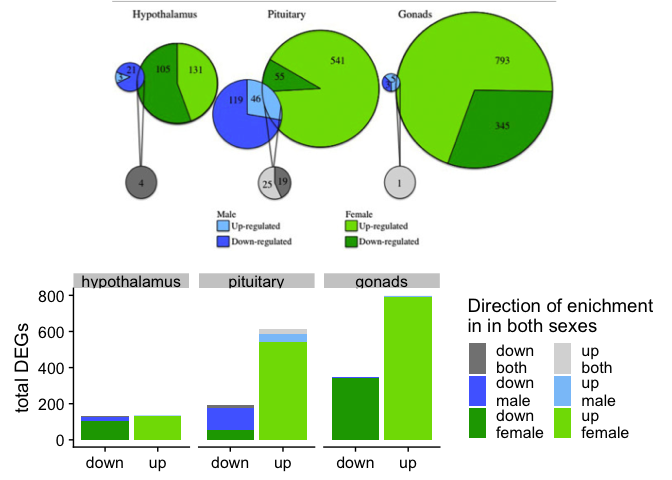
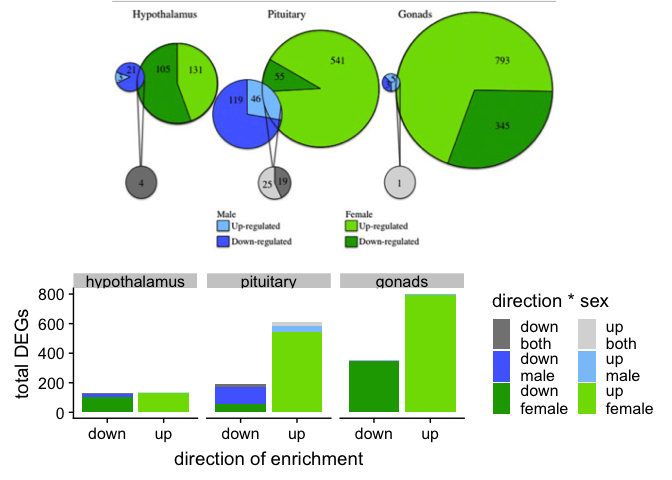
new order, more text

diff --git a/README.md b/README.md
@@ -1,73 +1,107 @@
 [![Binder](http://mybinder.org/badge.svg)](http://beta.mybinder.org/v2/gh/raynamharris/vennbar/master?urlpath=rstudio)
 Click the button to launch a Binder R session and tinker with all the
-bar plots or explore the code in the cloud.
+bar plots or explore the code in the cloud. Navigate to the `examples`
+directory where there is a subdirectory for each of the four examples,
+all identified by the first or last author.
 
-I would like to see more scientists using bar charts instead of Venn
-diagrams. I’d like to illustrate why that is by comparing venn diagrams
-from some research artilces that I resprect to bar plots that I made
-with `tidyverse` and `cowplot`. I think these bar plots can be made more
-simplicity, flexibility, reliability, and reproducibility than a venn
-diaram.
+[Venn diagrams](https://en.wikipedia.org/wiki/Venn_diagram) are a type
+of figure that I see a lot behavioral genomics research. While I do
+agree that venn diagrams are a great way to *conceptualize* the goal of
+looking for shared or unique transcriptional reponses to experimental
+manipulations, I don’t think they are the best way to *vizualize
+emperical data*.
 
-Example 1 is from [Cognitive specialization for learning faces is
-associated with shifts in the brain transcriptome of a social wasp by
-Berens et al.](http://jeb.biologists.org/content/220/12/2149). In this
-example, the circles do not represent a meaningful quantity. A stacked
-bar plot can use color, space, and text to highlight patterns in the
-data. [Here is the code](./examples/toth2017/toth-venn.Rmd) for my bar
-plot alternative.
+I don’t think I am the only one with this opinion. I searched for “venn”
+in Garrett Grolemund & Hadley Wickham’s [R for Data
+Science](https://r4ds.had.co.nz/) book and in Claus Wilke’s
+[Fundamentals of Data Visualization](https://serialmentor.com/dataviz/)
+book, and I found **zero** support for using venn diagrams in
+communicate data. (Note: the R for Data Science book does use Venn
+diagrams to illustrate the differences between `inner_join` and
+`full_join`, but this supports my intutiation that venn diagrams are
+useful for conceptualize ideas about data.)
 
-![](./examples/toth2017/toth-original-alt-1.png)
-
-Another reproducible alternative to the venn diagram is a table.
-
-    ##   GO  pattern P.fusatus both P.metricus
-    ## 1  h observed        42   10         20
-    ## 2  h expected        52    0         30
-    ## 3  i observed        31   13         25
-    ## 4  i expected        43    1         37
-
-Example 2 if from [Sex-biased transcriptomic response of the
-reproductive axis to stress by Calisi et
-al.](https://www.sciencedirect.com/science/article/pii/S0018506X17302696?via%3Dihub).
-The code for my bar plot alternative [is
-here](./examples/calisi2017/calisi-venn.Rmd). This weighted Venn diagram
-is the highest quality Venn diagram I’ve ever seen. Here, the circles
-convey meaning at large sizes, but they lose resolution at smaller
-values. I think bar plots can convey the data more accurately. This
-faceted and stacked bar plot really highlights the magnitude of the sex
-difference between males and females.
-
-![](./examples/calisi2017/calisi-original-alt-1.png)
-
-Example 3 if from [Transcriptomics of an extended phenotype: parasite
-manipulation of wasp social behaviour shifts expression of caste-related
-genes by Geffre et
-al.](https://royalsocietypublishing.org/doi/full/10.1098/rspb.2017.0029?url_ver=Z39.88-2003&rfr_id=ori:rid:crossref.org&rfr_dat=cr_pub%3dpubmed)
-Again, these circles do not represent the data. This is a simple bar
-chart without any fancy facetting or stacking. I flipped the coordinates
-rather than rotating the text. The authors used an arrow, but I used a
-bright red fill to highly the candidate genes. [Here is the
-code](./examples/geffre2017/geffre-venn.Rmd) for my bar plot
-alternative.
-
-![](./examples/geffre2017/geffre-original-alt-1.png)
-
-Example 4 from [Early life stress alters transcriptomic patterning
-across reward circuitry in male and female
-mice](https://www.biorxiv.org/content/10.1101/624353v1) by Catherine
-Jensen Peña *et al.* This might be my favorite. The subplot has its own
-scaling, so of circles cannot be compared across plots. Moreover, the
-authors report the *percent* of shared gene expression, but there venn
-diagrams show *counts*. So, I calculated the per cent. Shared gene
-expression patterns are shown in purple; unique gene expression in
-orange. Now, you can spot unusual trends in the data, like increase
-response to early and late life stress in the female PFC. This is
-something that is hidden in the Venn Diagram. [Here is the
-code](./examples/pena2019/pena-venn.Rmd) for my bar plot alternative.
-
-![](./examples/pena2019/pena-original-alt-1.png)
+With this blog post, my goal is to encourage more scientists to use
+**bar charts instead of Venn diagrams** to communicate experimental
+results. Here, I compare four Venn diagrams from published research
+articles to four bar plots that I made with `tidyverse` and `cowplot`. I
+think these bar plots can be made more simplicity, flexibility,
+reliability, and reproducibility than a venn diaram. These Venn diagrams
+all come from labs that I admire and respectd. I really value their
+research contributions, but I do hope to see more alternatives for Venn
+diagrams in future publications.
 
 ![](./vennbar-1.png)
 
-What do you think? What other alternatives do you suggest?
+**Example 1** is from [Cognitive specialization for learning faces is
+associated with shifts in the brain transcriptome of a social wasp by
+Berens *et al*. 2017](http://jeb.biologists.org/content/220/12/2149). In
+this example, the circles do not represent a meaningful quantity. A
+stacked bar plot can use color, space, and text to highlight patterns in
+the data. I wanted to make bar plot mirror the venn diagram as closely
+as possible, but I chagned the order of the factors so that “both”
+catagory was plotted first. This was necessary for adding text to the
+bar chart because the values for *P. metricus* and both were overlapping
+when I kept the both catagory in the middle. [Here is the
+code](https://github.com/raynamharris/vennbar/blob/master/examples/toth2017/toth-venn.md)
+for my bar plot alternative.
+
+![](./examples/toth2017/toth-original-alt-1.png)
+
+**Example 2** is from [Transcriptomics of an extended phenotype:
+parasite manipulation of wasp social behaviour shifts expression of
+caste-related genes by Geffre et
+al.](https://royalsocietypublishing.org/doi/full/10.1098/rspb.2017.0029?url_ver=Z39.88-2003&rfr_id=ori:rid:crossref.org&rfr_dat=cr_pub%3dpubmed).
+As with example 1, the size of these circles does convey any meaning
+about the size of the sets. The bar chart really highlights that fact
+that that “worker versus gyne” (or “WorkGyne” for short) comparison
+yields the most differentially expressed genes. However, that was not
+the main message of the venn diagram. The authors used an arrow an `*`
+to highlight one particular comparison, so I used a bright red fill to
+highlight the parasite maniupation candidate genes. [Here is the
+code](https://github.com/raynamharris/vennbar/blob/master/examples/geffre2017/geffre-venn.md)
+for my bar plot alternative.
+
+![](./examples/geffre2017/geffre-original-alt-1.png)
+
+**Example 3** is from [Sex-biased transcriptomic response of the
+reproductive axis to stress by Calisi et
+al. 2017](https://www.sciencedirect.com/science/article/pii/S0018506X17302696?via%3Dihub).
+This weighted Venn diagram is the highest quality Venn diagram I’ve ever
+seen, but it still has limitations. If you only focus on the green pies,
+they seem to do a good job of convey relative size, but if you look
+closely, you’ll notices that the size of the grey circles is misleading.
+The original venn diagram conveys information about tissue
+(hypothalamus, pititary, gonad), sex (male and female), and response
+(up- or down-regulation), so I used facetting and a combination of
+stacked and side-by-side bar plot to vizualize all the complexity. I
+think that this bar chart does a better job of conveying the magnitude
+of differences between the sexes and across tissues an the bias toward
+up-regulation of gene expression. [Here is the
+code](https://github.com/raynamharris/vennbar/blob/master/examples/calisi2017/calisi-venn.md)
+for my bar plot alternative, as well as a less-squished version of the
+bar plot.
+
+![](./examples/calisi2017/calisi-original-alt-1.png)
+
+**Example 4** is from [Early life stress alters transcriptomic
+patterning across reward circuitry in male and female mice by Peña *et
+al.* 2017](https://www.biorxiv.org/content/10.1101/624353v1). Here, the
+venn diagrams are also scales, but each of the six subplots have their
+own scaling, so you cannot compare all six visually. Moreover, the
+authors report the *percent* of shared gene expression in the
+manuscript, but there venn diagrams show *counts*. So, I calculated the
+percent of shared differentially expressed genes (%DEGs) and colored all
+overlapping responses in shades of purple an unique responses in shades
+of orange. Now, once can spot intersting trends in the data, like
+increase response to early and late life stress (ELS + STVS) in the
+female PFC. This is something that is present but not emphasized in the
+venn. [Here is the
+code](https://github.com/raynamharris/vennbar/blob/master/examples/pena2019/pena-venn.md)
+for my bar plot alternative.
+
+![](./examples/pena2019/pena-original-alt-1.png)
+
+So, that’s my comparison of four venn diagrams and four possible bar
+plot alternatives. What do you think? Do you see the advantages? What
+other alternatives do you suggest? Comments welcome!

diff --git a/examples/calisi2017/calisi-venn.md b/examples/calisi2017/calisi-venn.md
@@ -41,9 +41,9 @@ paper](https://www.sciencedirect.com/science/article/pii/S0018506X17302696?via%3
 
     p2 <- ggplot(data=venn, aes(x=direction, y = count,  fill = reorder(directionsex, desc(directionsex)))) + 
       geom_bar(stat="identity") +
-      labs(y = "total DEGs", x = NULL) +
+      labs(y = "total DEGs", x = "direction of enrichment") +
       scale_fill_manual(values = mycolors,
-                        name="Direction of enichment\nin in both sexes") +
+                        name="direction * sex") +
       #geom_text_repel(position = "stack", aes(x=direction, y = count,  label = count ))
       facet_wrap(~tissue) +
       guides(fill = guide_legend(nrow = 3)) 
